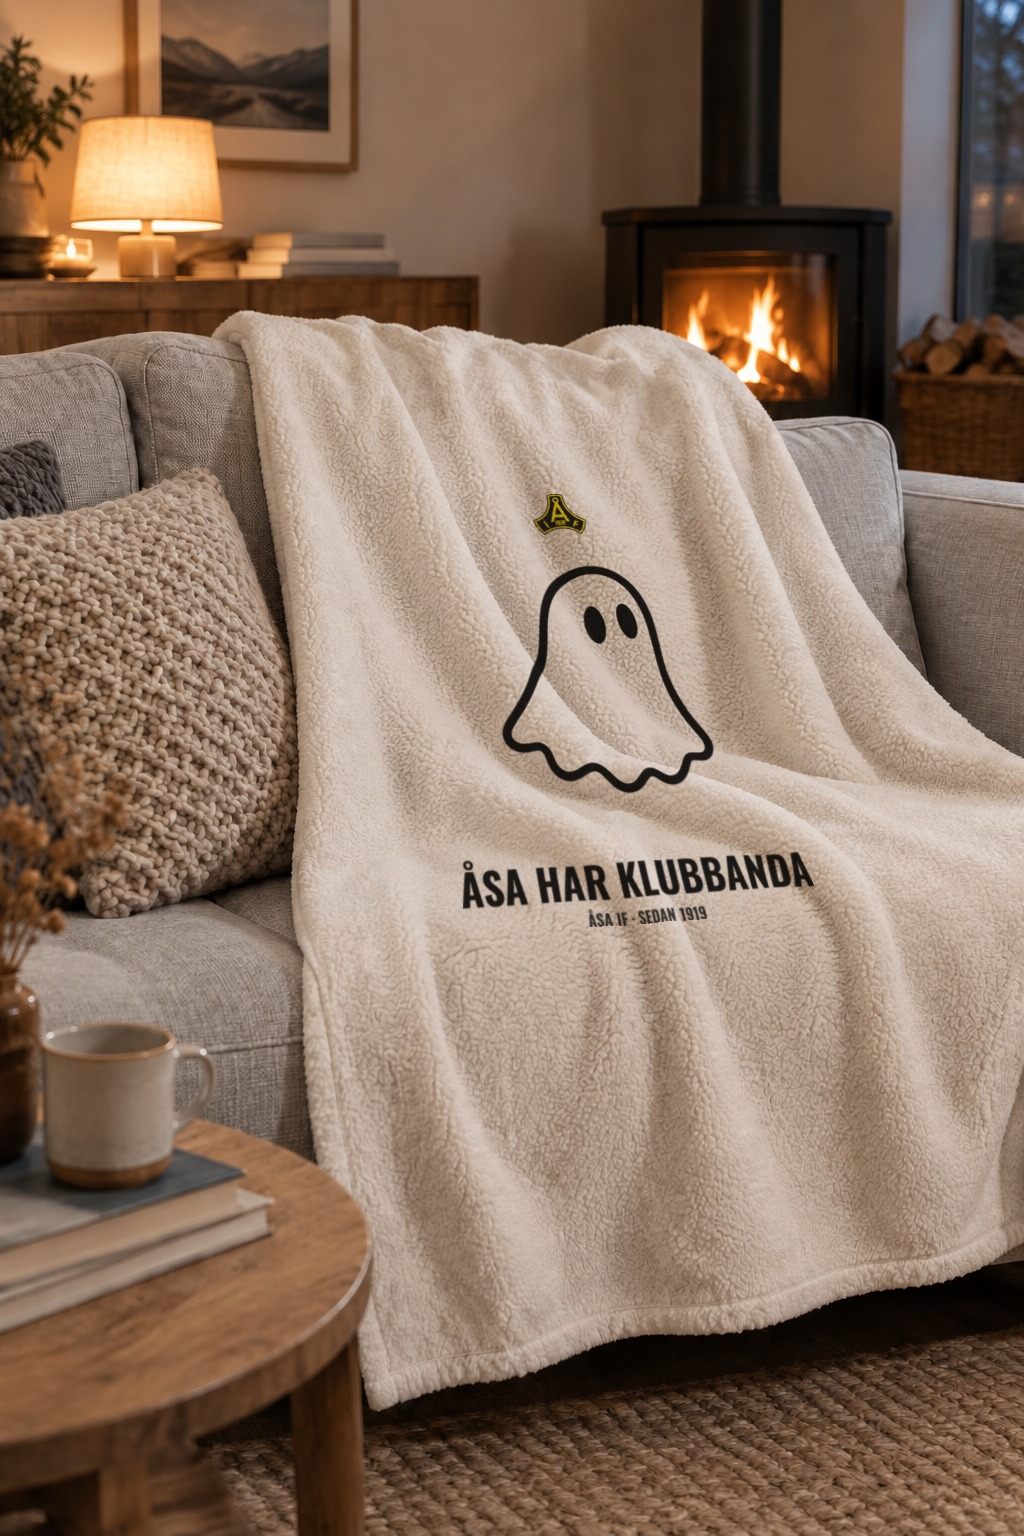
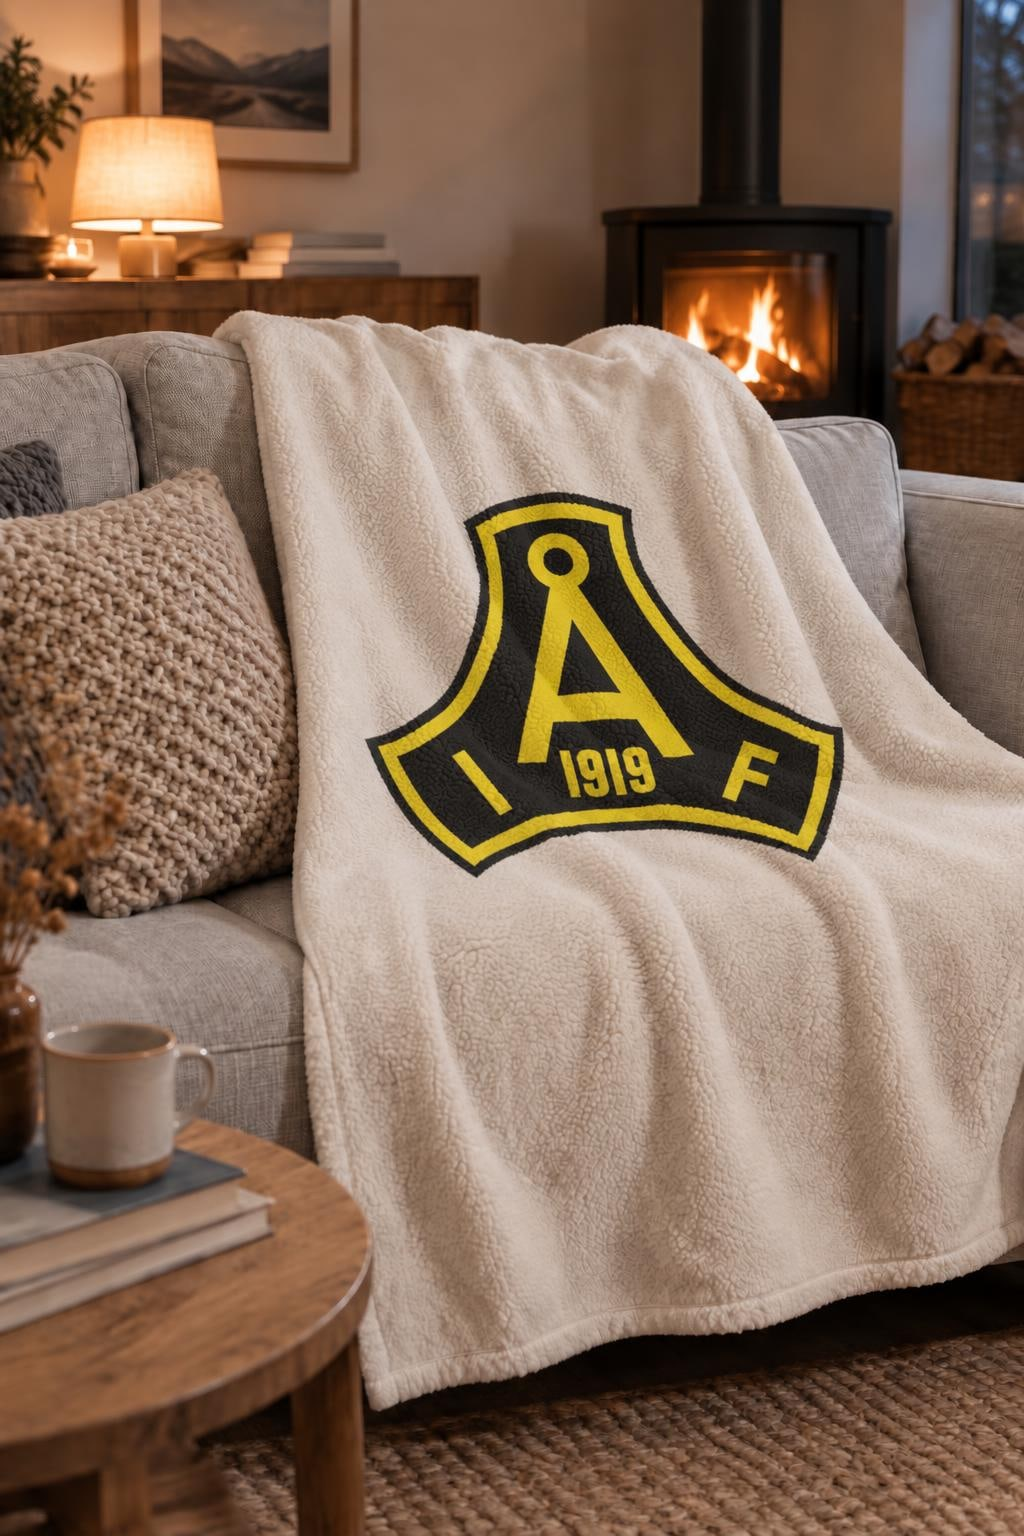
Åsa IF-caset: klubbens sköld stort fram i stället för spöket

diff --git a/lib/newwave/clubCase.ts b/lib/newwave/clubCase.ts
@@ -18,22 +18,22 @@ export const CLUB_CASE = {
   id: "v42",
   week: 42,
   title: "Åsa har klubbanda",
-  occasion: "Halloween",
+  occasion: "Säsongsavslutning",
   story:
-    "Till Halloween får Åsas klubbanda bokstavligen ett litet spöke, med en ordvits som passar lika bra för pingisfamiljen som för fotbolls- och innebandygänget. Sloganen sätts stort och typografiskt avskalad, med spöket som enda lilla bildaccent.",
+    "När knattefotbollen spelar sin sista helg samlas hela Åsa, och då ska klubbandan synas. Åsa IF:s sköld i gult och svart sitter stort fram, utan krusiduller, så att fotbollen, pingisfamiljen och innebandygänget bär samma märke.",
   signals: [
-    { title: "Halloween", detail: "Lördag 31 oktober" },
-    { title: "Öppen hall – innebandy", detail: "Fredag 16–17.30" },
     { title: "Knattefotbollens sista helg", detail: "Åsavallen" },
+    { title: "Öppen hall – innebandy", detail: "Fredag 16–17.30" },
+    { title: "Halloween", detail: "Lördag 31 oktober" },
   ],
   motifs: [
     {
       slogan: "Åsa har klubbanda",
-      signal: "Halloween",
-      story: "Ett litet spöke och en ordvits för hela föreningen – från pingisfamiljen till fotbolls- och innebandygänget.",
+      signal: "Knattefotbollens sista helg",
+      story: "Klubbens sköld stort fram – samma märke för knattefotbollen, pingisfamiljen och innebandygänget.",
       brand: 9,
       sales: 9,
-      note: "Träffsäker och inkluderande ordvits med ett avskalat uttryck som är både tryckvänligt och köpstarkt.",
+      note: "Märket alla redan känner igen: rent, tidlöst och lätt att trycka – och det säljer långt efter veckan.",
     },
     {
       slogan: "Åsa har hallkoll",
@@ -41,7 +41,7 @@ export const CLUB_CASE = {
       story: "Fredagens öppna hall får en varm ordvits och en dörr på vid gavel: alla åldrar och hela Åsa är välkomna.",
       brand: 9,
       sales: 8,
-      note: "Välkomnande och lätt att bära även efter veckan, men säljer något sämre än Halloween just nu.",
+      note: "Välkomnande och lätt att bära även efter veckan, men säljer något sämre än klubbmärket.",
     },
     {
       slogan: "Läskigt bra i Åsa",
@@ -49,7 +49,7 @@ export const CLUB_CASE = {
       story: "En fotbollspumpa gör Halloween och knattefotbollen till samma glada motiv, utan att bli otäckt för de yngsta.",
       brand: 8,
       sales: 8,
-      note: "Snäll Halloweenhumor för familjer, men pingis och innebandy får mindre att känna igen sig i.",
+      note: "Snäll Halloweenhumor för familjer, men känns gammal efter den 31 oktober och pingis och innebandy får mindre att känna igen sig i.",
     },
     {
       slogan: "Åsa förenar sedan 1919",
@@ -88,30 +88,30 @@ export const CLUB_CASE = {
   content: {
     instagram: {
       caption:
-        "Åsa har klubbanda – nu med ett litet spöke! 👻 T-shirt 349 kr, hoodie 599 kr, keps 249 kr och mugg 179 kr. Trycks på beställning hos Intersport, och varje köp stöttar Åsa IF. För hela vårt fotbolls-, pingis- och innebandygäng. Länk i bio 🎃",
-      hashtags: ["ÅsaIF", "ÅsaHarKlubbanda", "Klubbandan", "Halloween", "Klubbmerch", "Föreningsliv", "Åsa"],
+        "Åsa har klubbanda – och nu syns den. Vår sköld i gult och svart, stort fram på T-shirt 349 kr och hoodie 599 kr, och på keps 249 kr och mugg 179 kr. Trycks på beställning hos Intersport, och varje köp stöttar Åsa IF. För hela vårt fotbolls-, pingis- och innebandygäng. Länk i bio 💛🖤",
+      hashtags: ["ÅsaIF", "ÅsaHarKlubbanda", "Klubbmärket", "Säsongsavslutning", "Klubbmerch", "Föreningsliv", "Åsa"],
     },
     facebook: {
-      post: `Till Halloween får vår klubbanda sällskap av ett litet spöke – med motivet ”Åsa har klubbanda” samlar vi knattefotbollens familjer, pingisgänget och innebandyvännerna under samma ordvits! 👻 Välj T-shirt för 349 kr, hoodie för 599 kr, keps för 249 kr eller mugg för 179 kr. Allt trycks på beställning, och varje köp stöttar vår förening. Hitta familjens klubbanda i Åsa IF:s butik hos Intersport: ${utm("facebook", "social")}`,
+      post: `Knattefotbollens sista helg på Åsavallen – och klubbandan ska synas! Motivet ”Åsa har klubbanda” är helt enkelt vår sköld, stort fram. Samma märke för knattefamiljerna, pingisgänget och innebandyvännerna. Välj T-shirt för 349 kr, hoodie för 599 kr, keps för 249 kr eller mugg för 179 kr. Allt trycks på beställning, och varje köp stöttar vår förening. Hitta familjens favorit i Åsa IF:s butik hos Intersport: ${utm("facebook", "social")}`,
     },
     newsletter: {
-      subject: "Åsa har klubbanda – och ett litet Halloweenspöke!",
-      body: `Hej alla medlemmar!\n\nSpöken, pumpor och knattefotboll – Halloween närmar sig! Vårt motiv ”Åsa har klubbanda” låter stor, avskalad text möta ett litet spöke. En ordvits för hela föreningen, från pingisfamiljen till fotbolls- och innebandygänget.\n\nVälj T-shirt för 349 kr, hoodie för 599 kr, keps för 249 kr eller mugg för 179 kr. Allt trycks på beställning och varje köp stöttar Åsa IF.\n\nHitta din favorit i klubbens butik hos Intersport:\n${utm("nyhetsbrev", "email")}\n\nTack för att du bär vår gemenskap vidare!\nÅsa Idrottsförening sedan 1919`,
+      subject: "Åsa har klubbanda – bär märket till säsongsavslutningen",
+      body: `Hej alla medlemmar!\n\nKnattefotbollens sista helg är här och hela Åsa samlas på Åsavallen. Därför gör vi det enkelt: motivet ”Åsa har klubbanda” är Åsa IF:s sköld i gult och svart, stort fram. Märket som hela föreningen redan bär, från pingisfamiljen till fotbolls- och innebandygänget.\n\nVälj T-shirt för 349 kr, hoodie för 599 kr, keps för 249 kr eller mugg för 179 kr. Allt trycks på beställning och varje köp stöttar Åsa IF.\n\nHitta din favorit i klubbens butik hos Intersport:\n${utm("nyhetsbrev", "email")}\n\nTack för att du bär vår gemenskap vidare!\nÅsa Idrottsförening sedan 1919`,
     },
     banner: {
       headline: "Åsa har klubbanda",
-      subline: "Ett litet spöke. Stor gemenskap. Varje köp stöttar Åsa IF.",
-      altText: "Svart T-shirt med texten ”Åsa har klubbanda” i stor, avskalad typografi och ett litet spöke som enda bildaccent. Åsa IF:s Halloweenmotiv.",
+      subline: "Vårt märke, stort fram. Varje köp stöttar Åsa IF.",
+      altText: "Svart T-shirt med Åsa IF:s gula och svarta sköld stort fram. Åsa IF:s motiv ”Åsa har klubbanda”.",
     },
     tiktok: {
-      hook: "Vår klubbanda har blivit ett spöke! 👻",
+      hook: "Det här är vår klubbanda 💛🖤",
       script: [
-        "0–2 sek: Zooma in på motivets lilla spöke. Säg: ”Vår klubbanda har blivit ett spöke!”",
+        "0–2 sek: Zooma in på skölden på bröstet. Säg: ”Det här är vår klubbanda.”",
         "2–4 sek: Visa T-shirten, hoodien, kepsen och muggen. Text: ”Åsa har klubbanda”.",
-        "4–7 sek: Klipp mellan en fotboll, ett pingisrack och en innebandyklubba. Text: ”Tre sporter. Samma klubbanda.”",
+        "4–7 sek: Klipp mellan en fotboll, ett pingisrack och en innebandyklubba. Text: ”Tre sporter. Samma märke.”",
         "7–10 sek: Visa produkterna igen. Text: ”Trycks på beställning. Varje köp stöttar Åsa IF.” Avsluta med ”Länk i bio”.",
       ],
-      caption: "Läskigt bra klubbanda 👻 T-shirt, hoodie, keps och mugg – trycks på beställning i klubbens butik hos Intersport. Varje köp stöttar Åsa IF. Länk i bio",
+      caption: "Samma märke, hela Åsa 💛🖤 T-shirt, hoodie, keps och mugg – trycks på beställning i klubbens butik hos Intersport. Varje köp stöttar Åsa IF. Länk i bio",
     },
   } satisfies PackContent,
   shopUrl: `${SHOP}?drop=${DROP}`,

diff --git a/components/newwave/showcase/ClubShowcase.tsx b/components/newwave/showcase/ClubShowcase.tsx
@@ -9,7 +9,7 @@ import { LogoMark } from "@/components/newwave/Logo";
 type Step = { title: string; detail: string; lines: string[]; target: string };
 
 const STEPS: Step[] = [
-  { title: "Fyra motiv", detail: "Ur kalendern, matcherna och klubbens nyheter", lines: ["Läser klubbens kalender", "Halloween om 19 dagar", "Öppen hall på fredag", "Fyra motiv klara"], target: "motiv" },
+  { title: "Fyra motiv", detail: "Ur kalendern, matcherna och klubbens nyheter", lines: ["Läser klubbens kalender", "Knattefotbollens sista helg", "Öppen hall på fredag", "Fyra motiv klara"], target: "motiv" },
   { title: "Två granskare", detail: "Varumärke och sälj väljer det bästa", lines: ["Varumärket betygsätter", "Sälj betygsätter", "Det bästa motivet vann"], target: "motiv" },
   { title: "Komplett paket", detail: "Foton, inlägg, banner, affisch och produktbilder", lines: ["Tryckfilen ritas i 300 dpi", "Fotografen tar bilderna", "Inlägg, story och banner", "Produkterna fotograferas"], target: "paket" },
   { title: "Mejl till kansliet", detail: "Allt i en zip, måndag 07.00", lines: ["Packar zip-filen", "Skriver guiden", "Skickat till kansliet"], target: "mejl" },
